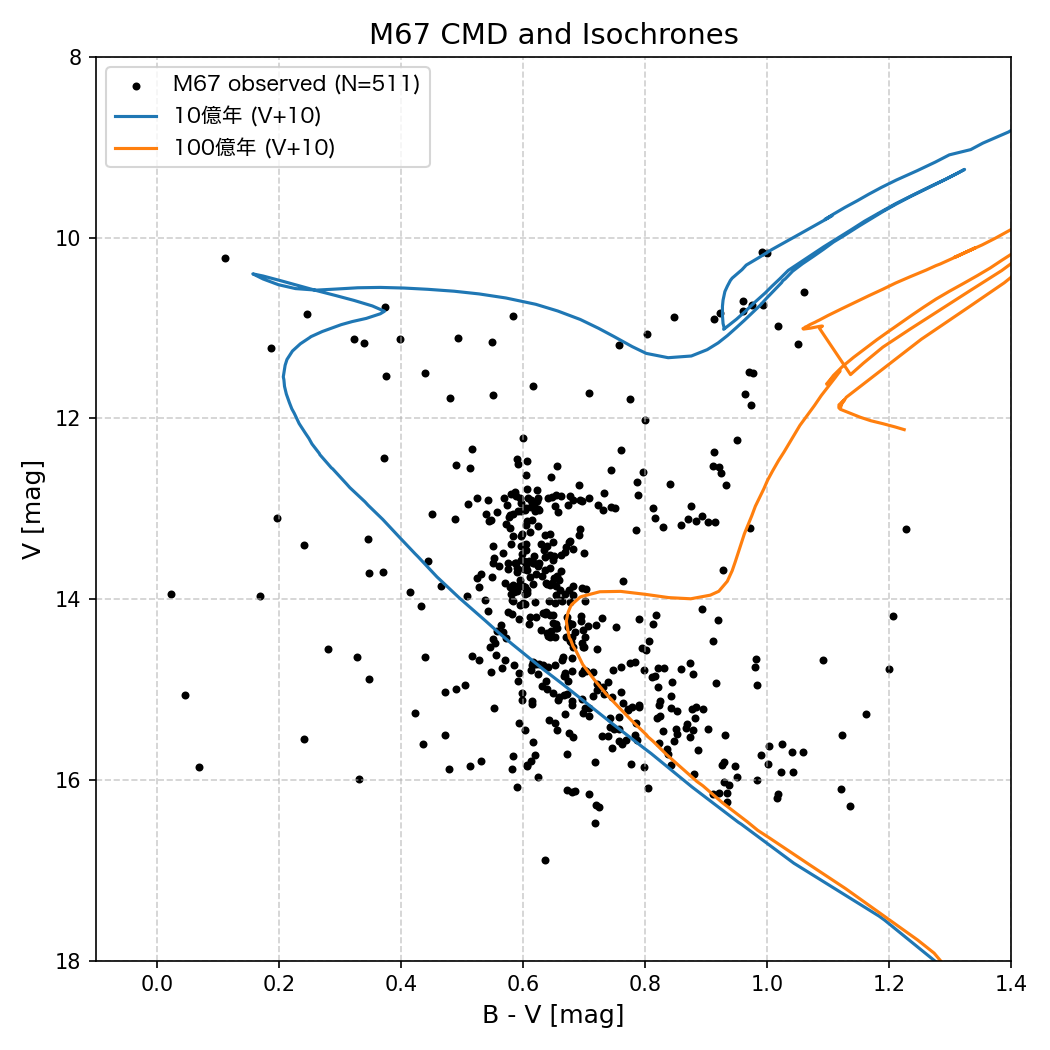
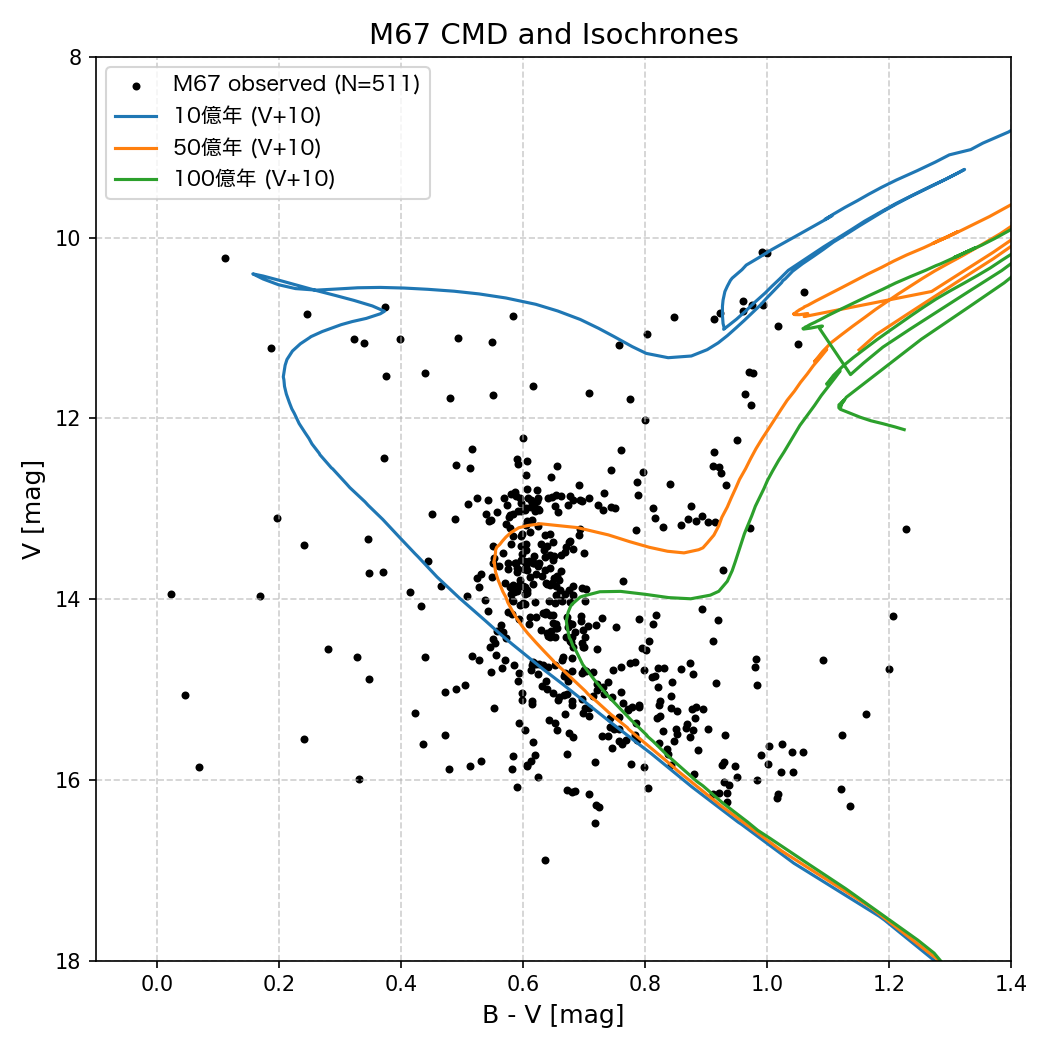
等時曲線の比較図に50億年の等時曲線を追加し、図5の説明を更新

diff --git a/isochrone.html b/isochrone.html
@@ -75,7 +75,7 @@
 <li>大雑把に年齢がわかったら、その年齢の等時曲線を縦方向(V等級方向)に平行移動させて、実測のHR図に重なるようにする。このときの移動量(V等級のオフセット)が、見かけの等級mと絶対等級Mの差m-M(距離指数)になる。</li>
 <figure>
     <img src = "isochrone_overlay.png", width = "600">
-    <figcaption>図5. 10億年と100億年の等時曲線のV等級を仮に10等級暗くオフセットさせて、実測したM67のHR図(図7のデータ)と重ねた例。実測の転向点は10億年と100億年の等時曲線の転向点の間にある(ように見える。心の目で見て良い)。オフセットの10等級の値は正確でない。自分なりに良い値を選ぶこと（目分量でも良い。最小二乗法などでマッチングさせる人がいたらすごいけどそこまでする必要はない）</figcaption>
+    <figcaption>図5. 10億年、50億年、100億年の等時曲線のV等級を仮に10等級暗くオフセットさせて、実測したM67のHR図(図7のデータ)と重ねた例。実測の転向点は10億年と100億年の等時曲線の転向点の間にあり、50億年の等時曲線の転向点に近い(ように見える。心の目で見て良い)。オフセットの10等級の値は正確でない。自分なりに良い値を選ぶこと（目分量でも良い。最小二乗法などでマッチングさせる人がいたらすごいけどそこまでする必要はない）</figcaption>
 </figure>
 <li>距離は、座学で距離を求めたときに使ったポグソンの式の変形バージョンを使って求める。
 <ul>
